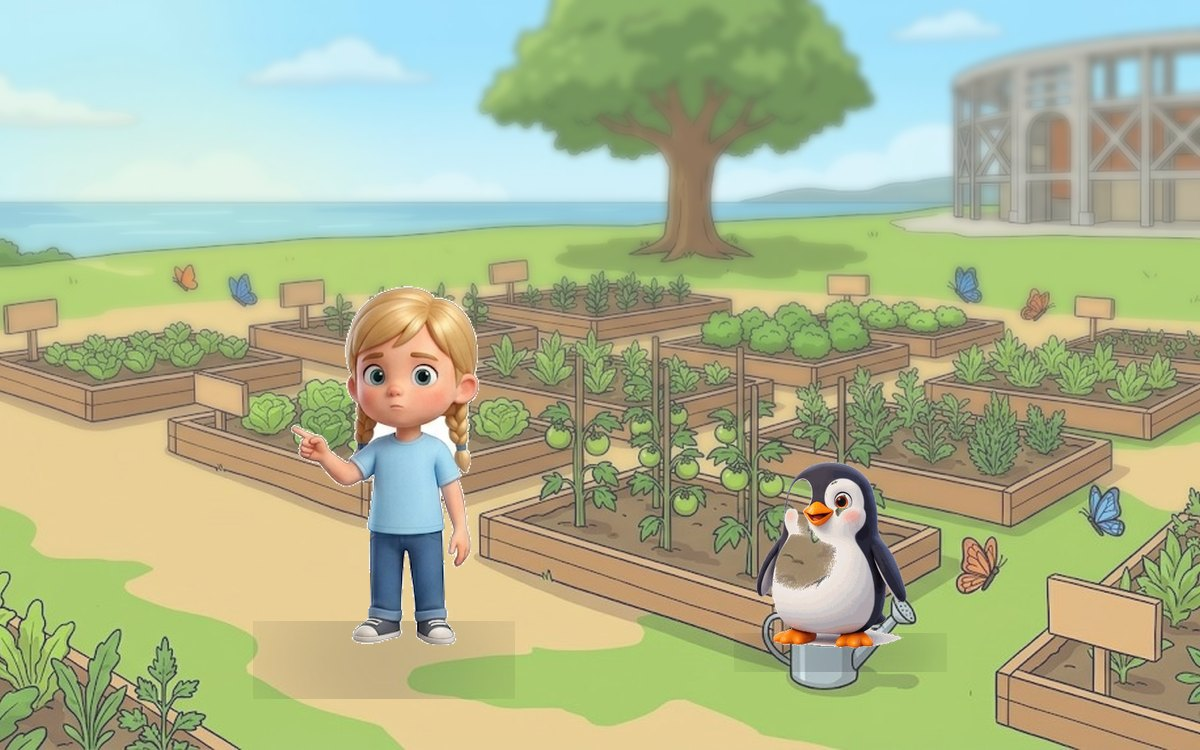
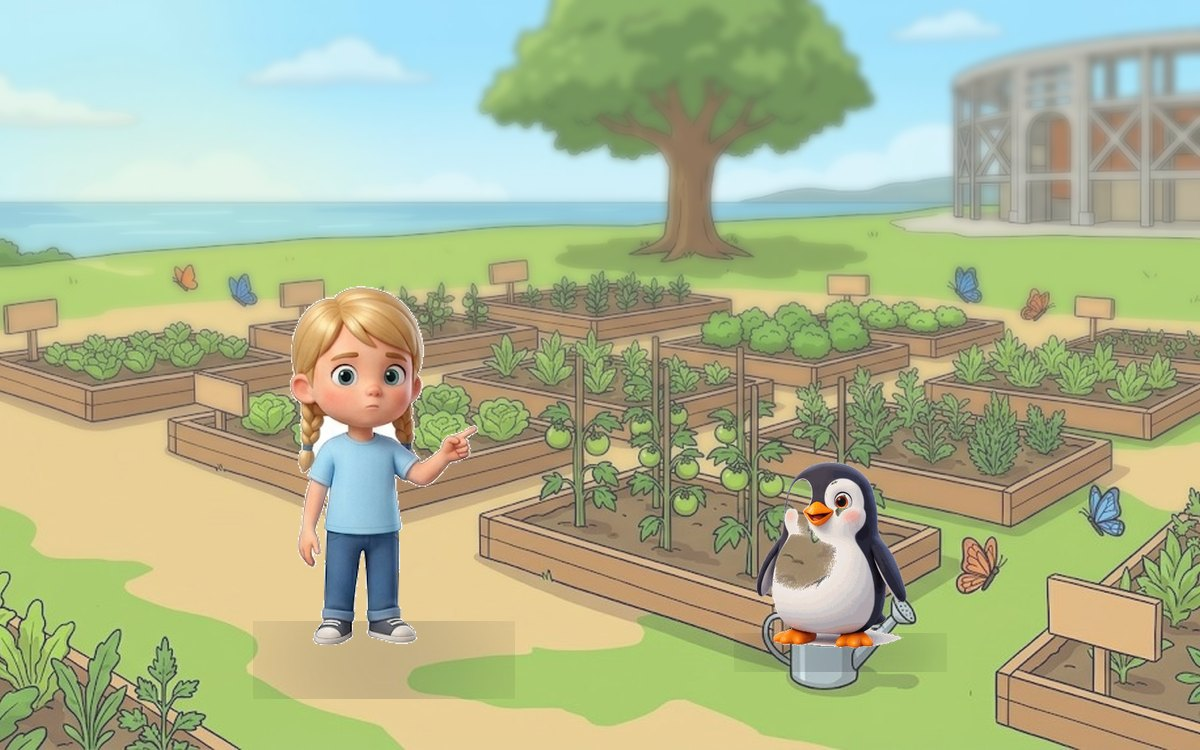
Fun for Nordic al dia: los personajes miran hacia lo que presentan

Changed region(s): [[0.2158, 0.368, 0.4008, 0.8587]]

diff --git a/nis-fun/engine/index.html b/nis-fun/engine/index.html
@@ -400,6 +400,7 @@ if(/\.github\.io$/i.test(location.hostname)){
 <script src="crossword-layout.js"></script>
 <script src="emoji-map.js"></script>
 <script src="vocab-art.js?v=1"></script>
+<script src="orientacion.js?v=1"></script>
 <script src="screens.js?v=4"></script>
 <script src="banner.js?v=4"></script>
 <script src="magicbox.js?v=4"></script>
@@ -556,7 +557,7 @@ async function hub(){
           poster="../assets/videos/posters/${idx.mascot}-intro.jpg?v=${VIDEO_V}"
           onerror="this.closest('.scr-centro').querySelector('.ficha').hidden=true"></video>
         <div class="ficha">
-          <img src="${CHAR(idx.mascot,1)}" alt="" ${FB}>
+          <img src="${CHAR(idx.mascot,1)}" alt=""${window.miraHacia ? miraHacia(LEVEL, idx.mascot, 1, 'der') : ''} ${FB}>
           <p><b>${mascota}</b> is ${(MASCOTA[idx.mascot]||{}).que||'your guide'}.
              “${(MASCOTA[idx.mascot]||{}).dice||''}”</p>
         </div>
@@ -630,8 +631,12 @@ const GUIA = { starters: 'pip', movers: 'luna', flyers: 'kili' };
 function guiaHTML(texto, etiqueta){
   const m = GUIA[LEVEL] || 'pip';
   const nombre = m[0].toUpperCase() + m.slice(1);
+  // La mascota se pone a la IZQUIERDA del bocadillo, asi que tiene que
+  // mirar a la derecha: Pip senala a la izquierda en esta pose y acababa
+  // apuntando fuera de la pantalla, con las actividades al otro lado.
+  const giro = window.miraHacia ? miraHacia(LEVEL, m, 3, 'der') : '';
   return `<div class="guia">
-    <img class="guia-mascota" src="${CHAR(m, 3)}" alt="${nombre}" ${FB}>
+    <img class="guia-mascota" src="${CHAR(m, 3)}" alt="${nombre}"${giro} ${FB}>
     <div class="guia-globo">
       <p>${esc(texto)}</p>
       <button class="guia-say" type="button">🔊 ${etiqueta || 'Listen'}</button>
@@ -804,12 +809,15 @@ async function unit(){
           <p id="lahistoria">${marcaClaves(makeIntro(UD), UD.wordlist)}</p>
           <button class="guia-say historia-say" type="button">🔊 Listen to the story</button>
         </div>
-        ${UD.scene && UD.scene.bubble ? `<div class="guia">
-          <img class="guia-mascota" src="${CHAR(UD.scene.speaker || (UD.characters||[])[0] || 'freya', 3)}"
-               alt="" ${FB}>
+        ${UD.scene && UD.scene.bubble ? (() => {
+          const quien = UD.scene.speaker || (UD.characters||[])[0] || 'freya';
+          const giro = window.miraHacia ? miraHacia(LEVEL, quien, 3, 'der') : '';
+          return `<div class="guia">
+          <img class="guia-mascota" src="${CHAR(quien, 3)}"
+               alt=""${giro} ${FB}>
           <div class="guia-globo" data-voz="bubbles"><p>${esc(UD.scene.bubble)}</p>
             <button class="guia-say" type="button">🔊 Listen</button></div>
-        </div>` : ''}
+        </div>`; })() : ''}
       </div>`,
       alMostrar(el){
         const p = el.querySelector('#lahistoria');

diff --git a/nis-fun/engine/orientacion.js b/nis-fun/engine/orientacion.js
@@ -1,0 +1,47 @@
+/* Hacia donde mira o senala cada pose.
+ *
+ * Los dibujos no son simetricos: la pose 2 de los ninos de Starters senala
+ * con el dedo hacia NUESTRA izquierda, la 7 corre hacia la derecha, y Pip
+ * esta girado a la izquierda en casi todas. Cuando el personaje se coloca a
+ * la izquierda de lo que presenta —las actividades, un objeto de la lamina,
+ * el bocadillo— acaba senalando fuera de la pantalla, que es justo lo
+ * contrario de lo que la ilustracion tiene que hacer.
+ *
+ * Aqui se anota solo lo que se ve sin discusion. Lo que mira de frente no
+ * entra: voltear una figura frontal no arregla nada y puede estropear una
+ * asimetria buscada (una mochila, un objeto en una mano).
+ *
+ * Quien lo usa da vuelta la imagen con scaleX(-1) cuando la direccion no
+ * apunta al contenido. No hay arte nuevo: es el mismo PNG reflejado.
+ *
+ * Comprobado mirando las hojas de contacto de los tres niveles el
+ * 27-ago-2026. Si se anaden poses, se miran y se anotan aqui.
+ */
+window.ORIENTACION = {
+  // Starters: los cuatro ninos comparten set de poses
+  'starters/freya':  { 2: 'izq', 7: 'der' },
+  'starters/nico':   { 2: 'izq', 7: 'der' },
+  'starters/astrid': { 2: 'izq', 7: 'der' },
+  'starters/tomas':  { 2: 'izq', 7: 'der' },
+  // Pip esta girado a la izquierda en casi todas
+  'starters/pip':    { 1: 'izq', 2: 'izq', 3: 'izq', 4: 'izq' },
+
+  'movers/erik':      { 7: 'der' },
+  'movers/valentina': { 7: 'der' },
+  'movers/sofia':     { 7: 'der' },
+  'movers/mateo':     { 2: 'izq', 7: 'der' },
+  'movers/luna':      { 2: 'der' },
+
+  'flyers/ingrid': { 4: 'der', 7: 'izq' },
+  'flyers/maya':   { 7: 'izq' },
+  'flyers/oliver': { 7: 'izq' },
+  'flyers/kili':   { 2: 'izq' },
+};
+
+/* Devuelve el style que hay que ponerle a la imagen para que mire hacia
+   `hacia` ('izq' o 'der'). Vacio si ya mira bien o si la pose es frontal. */
+window.miraHacia = function (nivel, slug, pose, hacia) {
+  const ficha = window.ORIENTACION[nivel + '/' + slug];
+  const tiene = ficha && ficha[Number(pose)];
+  return (tiene && tiene !== hacia) ? ' style="transform:scaleX(-1)"' : '';
+};
